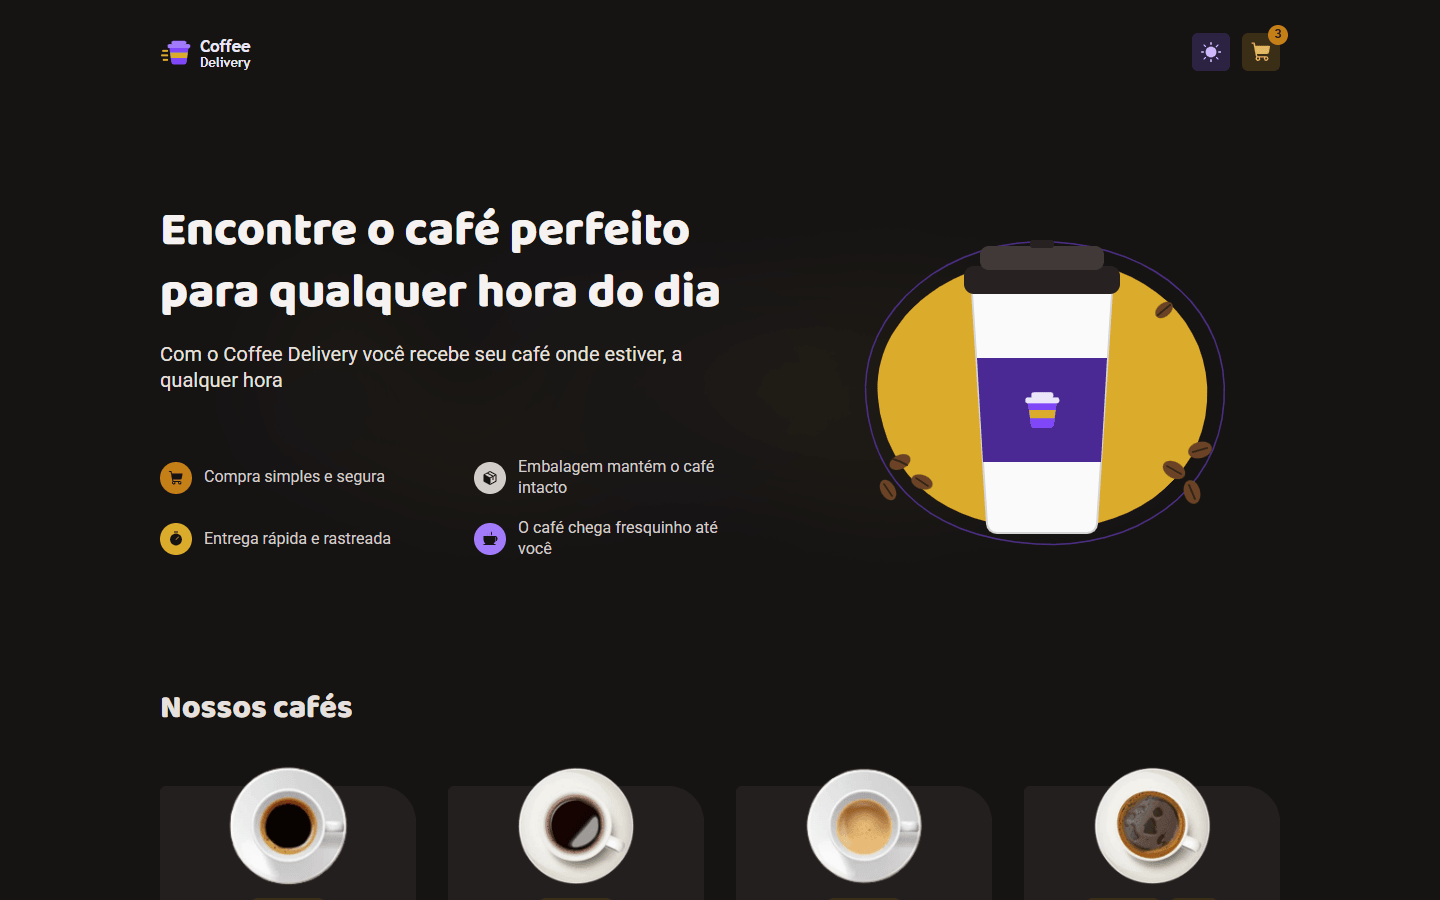
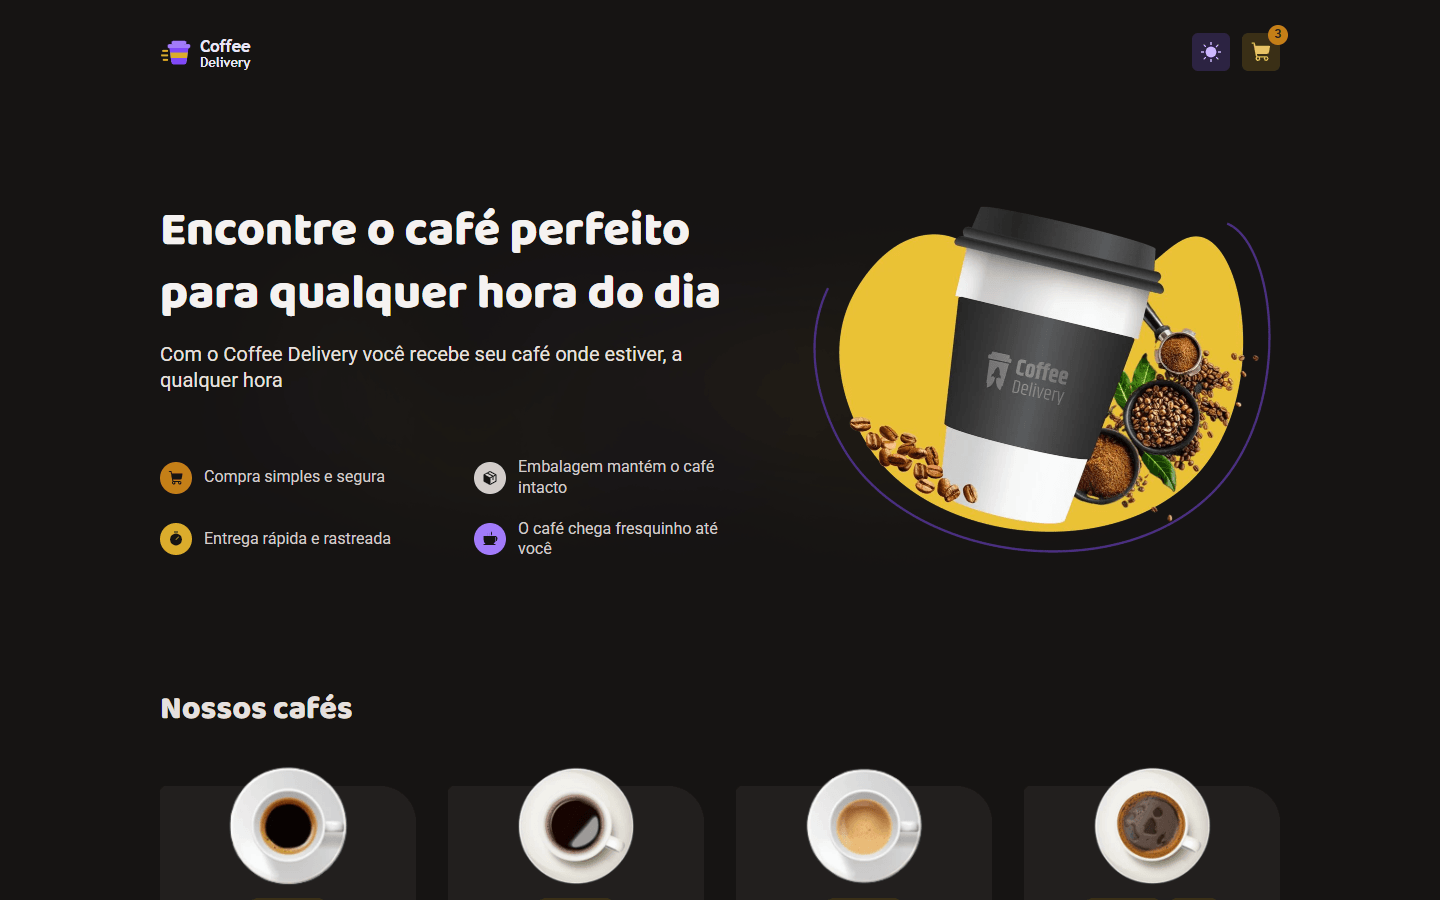
feat: use figma hero image on the home page
Replace the provisional hero SVG with the original Figma hero image
(952 px, same artwork as the exported Imagem.png at 2x resolution),
remove the duplicate PNG exports from public/ and update the brand,
Figma, PRD and task docs. Regenerate README screenshots.

diff --git a/src/features/catalog/components/Hero.tsx b/src/features/catalog/components/Hero.tsx
@@ -1,6 +1,6 @@
 import { CoffeeIcon, PackageIcon, ShoppingCartIcon, TimerIcon, type Icon } from '@phosphor-icons/react'
 import heroBackground from '../../../assets/hero/hero-background.webp'
-import heroIllustration from '../../../assets/hero/hero-illustration.svg'
+import heroCoffee from '../../../assets/hero/hero-coffee.webp'
 
 interface Benefit {
   label: string
@@ -53,7 +53,7 @@ export function Hero() {
         </div>
 
         <img
-          src={heroIllustration}
+          src={heroCoffee}
           alt=""
           width={476}
           height={360}

diff --git a/docs/figma/README.md b/docs/figma/README.md
@@ -111,7 +111,7 @@ As imagens foram extraídas do PDF exportado do Figma, associadas aos cafés pel
 ### 6.3 Outros assets
 | Asset | Situação |
 |---|---|
-| `src/assets/hero/hero-illustration.svg` | SVG provisório (TASK-005) no lugar da foto do hero, que exibia a logo original do desafio. Versão final com IA na TASK-032. |
+| `src/assets/hero/hero-coffee.webp` | Imagem do hero do Figma (952 px, 2×), em uso desde 18/11/2026 por decisão do aluno. O copo exibe a logo original do desafio. |
 | `src/assets/hero/hero-background.webp` | Fundo desfocado do hero, extraído (1440 px). Pode ser substituído por gradiente CSS. |
 | Ilustração do entregador (sucesso) | Vetorial, não extraída. SVG provisório (TASK-005); versão com IA (TASK-032). |
 | Logo original | Vetorial; não será usada (a marca própria será criada com IA, RF-16). |
@@ -126,7 +126,7 @@ As imagens foram extraídas do PDF exportado do Figma, associadas aos cafés pel
 | D4 | Mobile e tablet | Inexistente | Obrigatório (RF-15) | Layout próprio: grade de 1/2/3/4 colunas; checkout em coluna única abaixo de `lg`. |
 | D5 | Dark mode | Inexistente | Obrigatório (RF-14) | Paleta escura derivada dos tokens base, a definir na TASK-006. |
 | D6 | Localização no Header | "Porto Alegre, RS" fixo | Cidade/UF do último pedido | Mantida a decisão do PRD. |
-| D7 | Logo no copo do hero | Logo original do desafio | Marca própria (RF-16) | **Resolvido:** SVG provisório na TASK-005; versão com IA na TASK-032. |
+| D7 | Logo no copo do hero | Logo original do desafio | Marca própria (RF-16) | **Decisão do aluno (18/11/2026):** usar a imagem original do Figma no hero; a marca própria aparece no Header e no favicon. |
 | D8 | Ilustração do sucesso | Vetorial | — | **Resolvido:** SVG provisório na TASK-005; versão com IA na TASK-032. |
 | D9 | Orientação de 2 fotos | Café com Leite e Havaiano aparecem espelhados na Home | — | Detalhe visual sem impacto; usar as imagens como exportadas. |
 | D10 | Contraste (WCAG AA) | Texto branco sobre amarelo (2,1:1), `base-label` em descrições (3,2:1), texto da tag (2,7:1), número do badge (3,3:1) | WCAG 2.2 AA (PRD 8.1) | **Resolvido na TASK-006:** texto escuro `on-yellow` sobre amarelo, `base-label` escurecido para `#6E6767`, novos tokens `yellow-ink`/`purple-ink`. Verificado por teste automatizado. |

diff --git a/docs/PRD_SPEC.md b/docs/PRD_SPEC.md
@@ -206,13 +206,13 @@ IDs estáveis, referenciados na TECH_SPEC e na TASKS_SPEC.
 - Paleta e tipografia partem do Style Guide do Figma (amarelo/roxo; Baloo 2 e Roboto) e podem ser personalizadas, mantendo coerência nos dois temas.
 - Símbolo simples e legível em tamanhos pequenos, acompanhado de logotipo tipográfico.
 - Arquivos em SVG (preferencial) e PNG/WebP quando necessário.
-- Ilustrações sem asset reutilizável no Figma (imagem do hero sem a logo original e entregador da tela de sucesso) são geradas com IA e seguem a paleta da marca.
+- O hero usa a imagem original do Figma (copo de café), por decisão do aluno em 18/11/2026. A ilustração da tela de sucesso, que não tem asset reutilizável no Figma, é gerada com IA e segue a paleta da marca.
 
 ### 7.2 Branding com IA (obrigatório)
 1. Gerar ao menos uma proposta de logo original com ferramenta de IA.
 2. Definir conceito, paleta, tipografia e variações para fundo claro e escuro.
 3. Registrar em `docs/BRAND_GUIDE.md`, seção **Branding com IA**: ferramenta utilizada, prompt(s), resultado(s), curadoria/ajustes manuais, motivos da escolha e verificação dos termos de uso do material gerado.
-4. Registrar também as ilustrações geradas com IA (hero e sucesso) com o mesmo nível de detalhe.
+4. Registrar também a ilustração gerada com IA (tela de sucesso) com o mesmo nível de detalhe.
 5. Verificar legibilidade em 16–48 px e contraste nos dois temas.
 
 ### 7.3 Aplicação da logo
@@ -304,7 +304,7 @@ IDs estáveis, referenciados na TECH_SPEC e na TASKS_SPEC.
 | Frete | Fixo fictício de R$ 3,50 por pedido não vazio (valor do Figma) |
 | Preço da linha do carrinho | Exibe `preço unitário × quantidade` |
 | Ícones | Phosphor Icons (conforme Style Guide) |
-| Ilustrações | Hero e ilustração da tela de sucesso gerados com IA; fotos dos cafés extraídas do Figma |
+| Ilustrações | Hero e fotos dos cafés vindos do Figma; ilustração da tela de sucesso gerada com IA |
 | Previsão de entrega | Texto fixo informativo "20 min – 30 min" (conforme Figma) |
 | Pagamento | Crédito, débito ou dinheiro; sem transação |
 | CEP | ViaCEP |

diff --git a/README.md b/README.md
@@ -162,7 +162,7 @@ CoffeeCard ──addItem()──▶ CartProvider ──dispatch(action)──▶
 
 ## Marca e Branding com IA
 
-A logo, o favicon, o hero e a ilustração da tela de sucesso são **provisórios, em SVG**. As fotos dos cafés foram extraídas do PDF do Figma. A identidade final criada com IA entra na **TASK-032**, e a seção "Branding com IA" (ferramenta, prompt, resultado e motivos) fica em [docs/BRAND_GUIDE.md](docs/BRAND_GUIDE.md).
+A logo, o favicon e a ilustração da tela de sucesso são **provisórios, em SVG**. O hero e as fotos dos cafés vêm do Figma (o copo do hero exibe a logo original do desafio, por decisão do aluno). A identidade final criada com IA entra na **TASK-032**, e a seção "Branding com IA" (ferramenta, prompt, resultado e motivos) fica em [docs/BRAND_GUIDE.md](docs/BRAND_GUIDE.md).
 
 ## Uso de IA no desenvolvimento
 
@@ -182,7 +182,7 @@ O projeto foi desenvolvido com o **Claude Code** (extensão do VS Code), seguind
 
 ## Limitações conhecidas
 
-- Logo e ilustrações ainda provisórias (TASK-032).
+- Logo, favicon e ilustração de sucesso ainda provisórios (TASK-032).
 - Aplicação ainda não publicada (TASK-030): depende da conta de hospedagem.
 - Apenas o último pedido é mantido; não há histórico (fora do escopo).
 - Projeto demonstrativo: nenhum pedido é enviado e nenhum pagamento é processado.

diff --git a/docs/TASKS_SPEC.md b/docs/TASKS_SPEC.md
@@ -301,9 +301,9 @@
   - **Status:** Concluída
 
 - [ ] **TASK-032 — Substituir assets provisórios pela identidade criada com IA** *(executar antes da TASK-030)*
-  - **Objetivo:** aplicar a logo e as ilustrações finais geradas com IA pelo aluno (logo, favicon, hero sem a logo original, ilustração de sucesso) no lugar dos SVGs provisórios da TASK-005.
+  - **Objetivo:** aplicar a logo, o favicon e a ilustração de sucesso finais gerados com IA pelo aluno no lugar dos SVGs provisórios da TASK-005 (o hero passou a usar a imagem do Figma em 18/11/2026).
   - **Requisitos:** RF-16, RF-14.
-  - **Arquivos:** `public/favicon.svg`, `public/brand/*`, `src/assets/brand/*`, `src/assets/hero/*`, `src/assets/illustrations/*`, `docs/BRAND_GUIDE.md`.
+  - **Arquivos:** `public/favicon.svg`, `src/assets/brand/*`, `src/assets/illustrations/*`, `docs/BRAND_GUIDE.md`.
   - **Critério de pronto:** nenhum asset provisório restante; logo light/dark e favicon legíveis; `BRAND_GUIDE.md` com conceito final e seção **Branding com IA** (ferramenta, prompt, resultado, motivos, termos de uso) cobrindo logo e ilustrações.
   - **Teste/validação:** legibilidade em 16–48 px, contraste nos dois temas, ausência de imagens quebradas, `npm run build`.
   - **Commit:** `feat: apply ai generated brand identity`

diff --git a/docs/BRAND_GUIDE.md b/docs/BRAND_GUIDE.md
@@ -41,7 +41,7 @@ A escala completa está na [análise do Figma](./figma/README.md#3-tipografia).
 | `src/assets/brand/logo-dark.svg` | Header no tema escuro | Texto `purple-light`, tampa clareada | Provisório |
 | `src/assets/brand/symbol.svg` | Símbolo isolado | Fundo transparente | Provisório |
 | `public/favicon.svg` | Favicon | Símbolo sobre `yellow-light` com cantos arredondados, legível em fundos claros e escuros | Provisório |
-| `src/assets/hero/hero-illustration.svg` | Hero da Home | Copo para viagem com o símbolo, grãos e forma em `yellow` | Provisório |
+| `src/assets/hero/hero-coffee.webp` | Hero da Home | Imagem original do Figma (copo com a logo do desafio), 952 px para telas 2× | Definitivo (decisão do aluno) |
 | `src/assets/illustrations/delivery-success.svg` | Tela de sucesso | Entregador em scooter `purple` | Provisório |
 | `src/assets/coffees/*.webp` | Fotos do catálogo | 14 imagens extraídas do Figma | Definitivo |
 | `src/assets/hero/hero-background.webp` | Fundo desfocado do hero | Extraído do Figma | Definitivo (pode virar gradiente CSS) |
